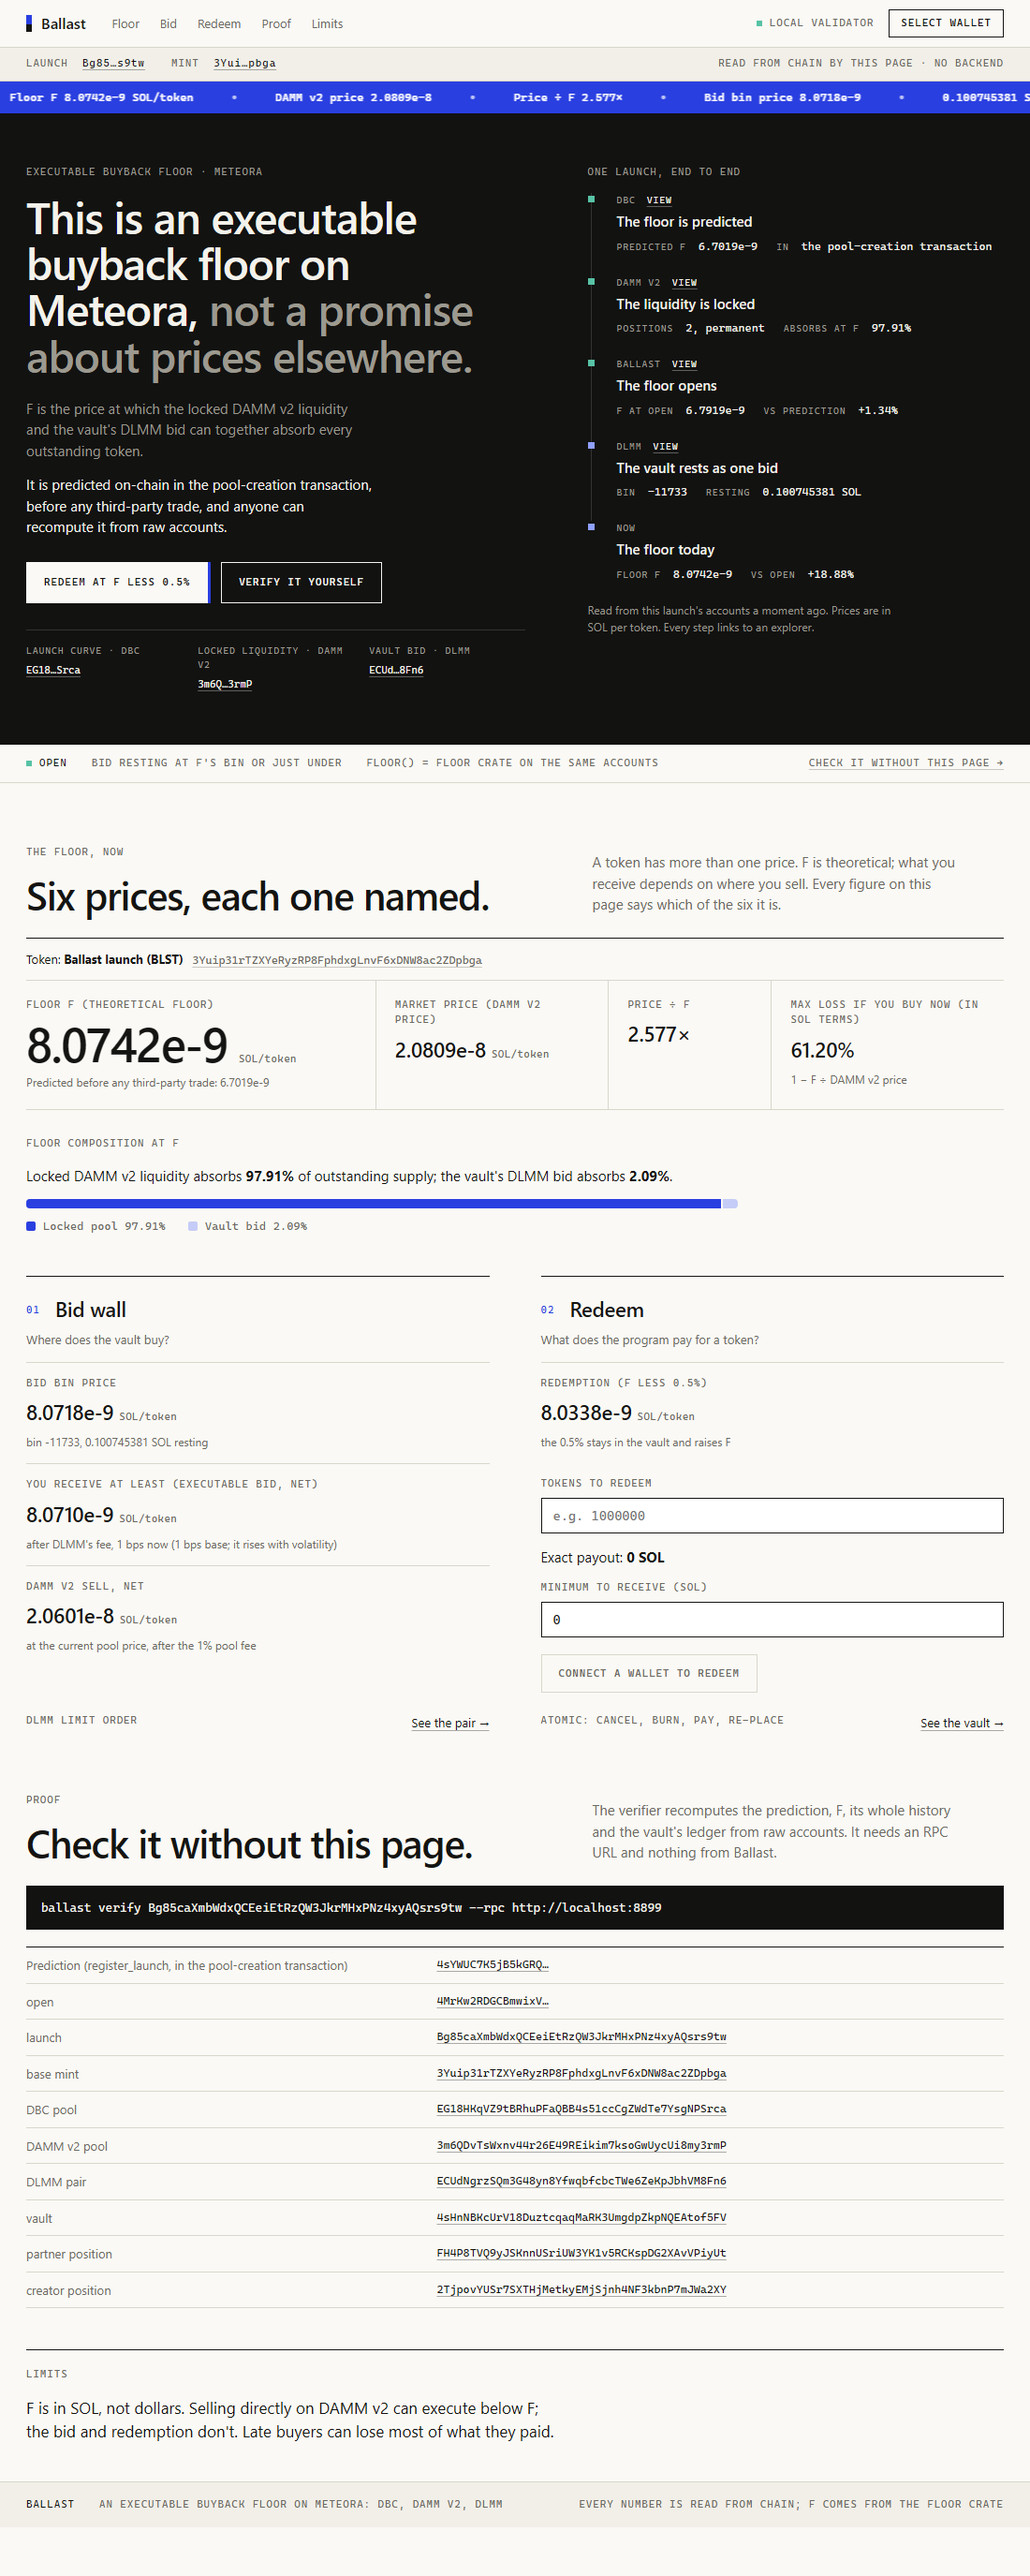
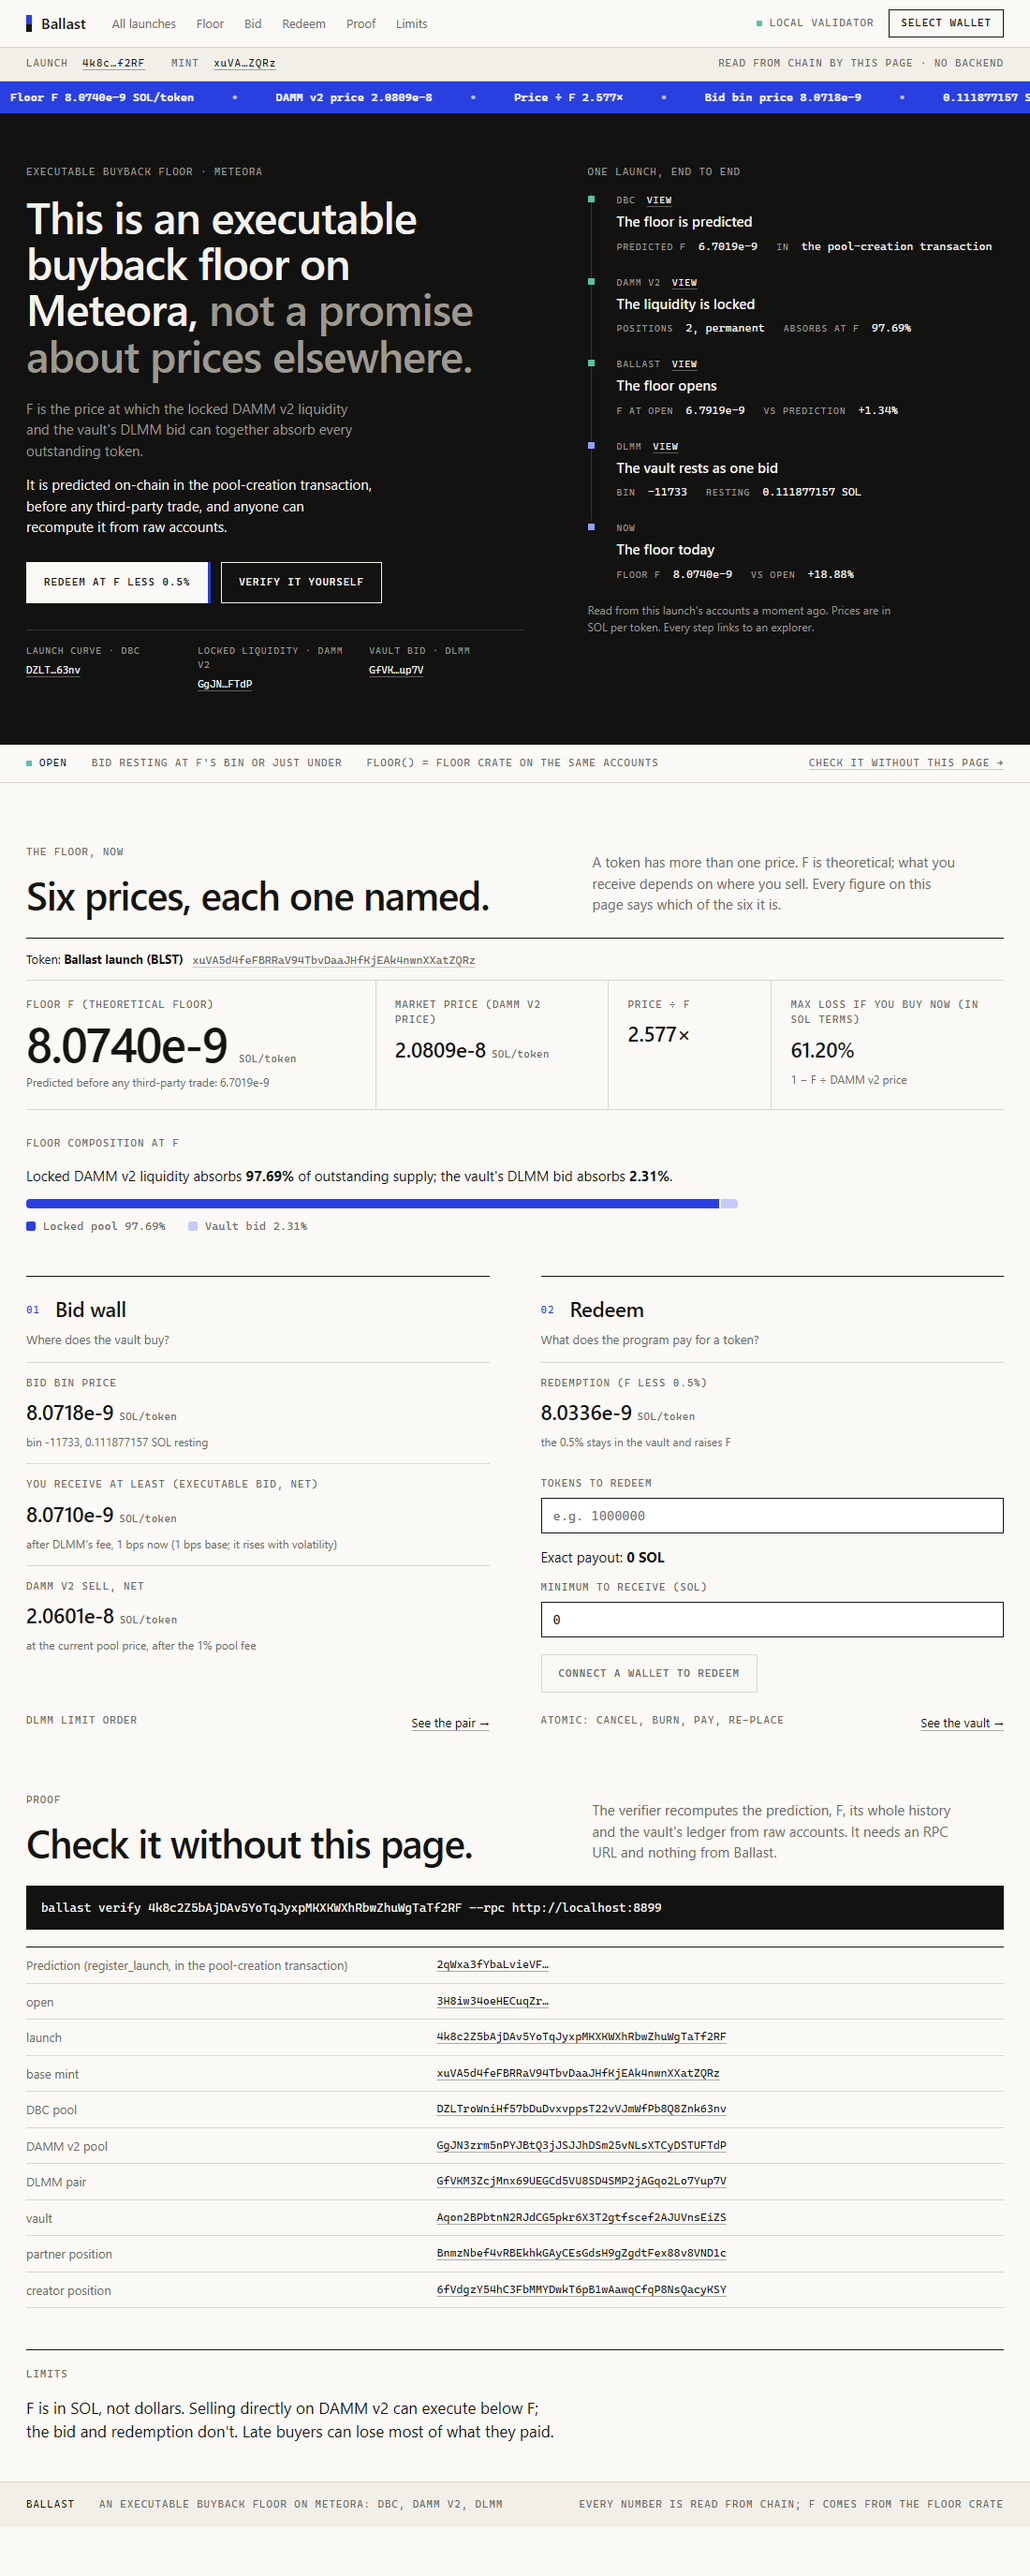
feat(app): landing screen — scan finding, launch list, how it works; video script (§21, §29)

Changed region(s): [[0.4327, 0.7727, 0.7109, 0.8964], [0.2164, 0.0, 0.2782, 0.0309], [0.1236, 0.4018, 0.1545, 0.4327]]

diff --git a/app/src/App.tsx b/app/src/App.tsx
@@ -4,7 +4,12 @@ import { useConnection, useWallet } from "@solana/wallet-adapter-react";
 import { WalletMultiButton } from "@solana/wallet-adapter-react-ui";
 import idl from "./ballast.json";
 import { loadFloor, type Floor } from "../../sdk/typescript/src/floor";
-import { buildRedeemTx, explorerUrl, loadModel, REDEEM_FEE_BPS, type Model } from "./model";
+import { BallastClient, LAUNCH_STATE } from "../../sdk/typescript/src/client";
+import { buildRedeemTx, explorerUrl, fFromS, loadModel, REDEEM_FEE_BPS, type Model } from "./model";
+
+/** One row of the landing page's launch list, straight from the `Launch` account. */
+interface LaunchRow { key: string; mint: string; state: number; predictedF: number; lastF: number | null; slot: number }
+const STATE_NAME: Record<number, string> = { 1: "Registered", 2: "Funded", 3: "Migrated", 4: "Cleaned", 5: "Open" };
 
 const HEADLINE_A = "This is an executable buyback floor on Meteora,";
 const HEADLINE_B = "not a promise about prices elsewhere.";
@@ -77,6 +82,29 @@ export function App() {
   const [amount, setAmount] = useState("");
   const [minOut, setMinOut] = useState<string | null>(null);
   const [status, setStatus] = useState<string | null>(null);
+  const [launches, setLaunches] = useState<LaunchRow[] | null>(null);
+
+  // Landing page (no ?launch=): every launch the program holds on this cluster, newest first.
+  useEffect(() => {
+    if (launchParam) return;
+    type Raw = { publicKey: PublicKey; account: { state: number; baseMint: PublicKey; registeredSlot: { toString(): string }; predictedS: { toString(): string }; sLast: { toString(): string } } };
+    const client = new BallastClient(connection, idl);
+    (client.program.account as never as { launch: { all(): Promise<Raw[]> } }).launch
+      .all()
+      .then((all) =>
+        setLaunches(
+          all
+            .map((x) => ({
+              key: x.publicKey.toBase58(), mint: x.account.baseMint.toBase58(), state: x.account.state,
+              predictedF: fFromS(BigInt(x.account.predictedS.toString())),
+              lastF: x.account.state === LAUNCH_STATE.open ? fFromS(BigInt(x.account.sLast.toString())) : null,
+              slot: Number(x.account.registeredSlot.toString()),
+            }))
+            .sort((p, q) => q.slot - p.slot),
+        ),
+      )
+      .catch((e) => setError(`could not list launches on ${connection.rpcEndpoint}: ${String((e as Error).message ?? e)}`));
+  }, [connection, launchParam]);
 
   useEffect(() => {
     fetch("/floor_wasm.wasm").then((r) => r.arrayBuffer()).then(loadFloor).then(setFloor, (e) => setError(String(e)));
@@ -145,7 +173,14 @@ export function App() {
         `Locked pool absorbs ${pct(m.composition.lockedPool)} of supply at F`,
         `Predicted ${sol(m.predictedF)} before any third-party trade`,
       ]
-    : ["Every number on this page is read from chain", "F comes from the floor crate, never from this page", "Check it with ballast verify"];
+    : [
+        "94 of the 100 newest DBC → DAMM v2 launches on mainnet had no permanently locked liquidity",
+        "Ballast: 85% of the raise locked for ever, 15% resting as one DLMM bid at the floor",
+        "Full sell-out on Meteora's mainnet binaries: lowest execution 1.017 × F",
+        "Every number is read from chain; F comes from the floor crate",
+        "Check any launch with ballast verify",
+      ];
+  const here = `${window.location.pathname}?rpc=${encodeURIComponent(rpc)}`;
 
   return (
     <div className="page" id="top">
@@ -155,11 +190,23 @@ export function App() {
           Ballast
         </a>
         <div className="links">
-          <a href="#floor">Floor</a>
-          <a href="#bid">Bid</a>
-          <a href="#redeem">Redeem</a>
-          <a href="#proof">Proof</a>
-          <a href="#limits">Limits</a>
+          {launchParam ? (
+            <>
+              <a href={here}>All launches</a>
+              <a href="#floor">Floor</a>
+              <a href="#bid">Bid</a>
+              <a href="#redeem">Redeem</a>
+              <a href="#proof">Proof</a>
+              <a href="#limits">Limits</a>
+            </>
+          ) : (
+            <>
+              <a href="#launches">Launches</a>
+              <a href="#how">How it works</a>
+              <a href="#check">Check it</a>
+              <a href="#limits">Limits</a>
+            </>
+          )}
         </div>
         <div className="right">
           <span className="cluster">
@@ -208,10 +255,10 @@ export function App() {
             accounts.
           </p>
           <div className="cta">
-            <a className="btn solid" href="#redeem">
-              Redeem at F less 0.5%
+            <a className="btn solid" href={launchParam ? "#redeem" : "#launches"}>
+              {launchParam ? "Redeem at F less 0.5%" : "Open a launch"}
             </a>
-            <a className="btn" href="#proof">
+            <a className="btn" href={launchParam ? "#proof" : "#check"}>
               Verify it yourself
             </a>
           </div>
@@ -234,11 +281,16 @@ export function App() {
         </div>
 
         <div className="trail">
-          <div className="eyebrow">One launch, end to end</div>
+          <div className="eyebrow">{launchParam ? "One launch, end to end" : "Why it matters"}</div>
           {!launchParam ? (
-            <p className="lede dim">
-              Open a launch: <code>?launch=&lt;launch address&gt;&amp;rpc=&lt;rpc url&gt;</code>
-            </p>
+            <div className="why">
+              <div className="big">
+                94 <span>of 100</span>
+              </div>
+              <p className="lede">of the newest DBC → DAMM v2 launches on mainnet had no permanently locked liquidity at all.</p>
+              <p className="lede dim">Only 2 held a locked-liquidity floor above half their pool price. A Ballast launch locks 85% of the raise for ever and rests the other 15% as a bid at the floor.</p>
+              <p className="caption">Measured with `ballast scan` over mainnet on 8 Oct 2026: evidence/scanner/scan-100-2026-10-08.json.</p>
+            </div>
           ) : !m ? (
             <p className="lede dim">{error ? "The launch could not be read." : "Reading the launch from chain…"}</p>
           ) : (
@@ -478,6 +530,97 @@ export function App() {
             </section>
           </main>
         </>
+      )}
+
+      {!launchParam && (
+        <main>
+          <section id="launches">
+            <div className="intro">
+              <div>
+                <div className="eyebrow">Launches on this cluster</div>
+                <h2>Pick one and try to break it.</h2>
+              </div>
+              <p>Every launch the program holds, read from its accounts. Open one to see its floor, its bid, redemption and the transactions that prove it.</p>
+            </div>
+            {launches === null ? (
+              <p className="q">{error ? "" : "Reading launches from chain…"}</p>
+            ) : launches.length === 0 ? (
+              <p className="q">No launch exists on this cluster yet.</p>
+            ) : (
+              <table className="list">
+                <thead>
+                  <tr>
+                    <th>Launch</th>
+                    <th>State</th>
+                    <th>Predicted F (lower bound)</th>
+                    <th>Floor F (last recorded)</th>
+                    <th />
+                  </tr>
+                </thead>
+                <tbody>
+                  {launches.map((l) => (
+                    <tr key={l.key}>
+                      <td>{addr(l.key, short(l.key))}</td>
+                      <td>{STATE_NAME[l.state] ?? l.state}</td>
+                      <td>{sol(l.predictedF)} SOL/token</td>
+                      <td>{l.lastF === null ? "not open yet" : `${sol(l.lastF)} SOL/token`}</td>
+                      <td>{l.state === LAUNCH_STATE.open ? <a href={`${here}&launch=${l.key}`}>Open the floor →</a> : "—"}</td>
+                    </tr>
+                  ))}
+                </tbody>
+              </table>
+            )}
+          </section>
+
+          <section id="how">
+            <div className="intro">
+              <div>
+                <div className="eyebrow">How it works</div>
+                <h2>Three Meteora programs, one floor.</h2>
+              </div>
+              <p>F is the price at which the locked pool and the vault's bid can together absorb every outstanding token. Each program carries a part of it; none is decoration.</p>
+            </div>
+            <div className="trio">
+              <div>
+                <h3>
+                  <i>01</i> DBC
+                </h3>
+                <p className="q">The launch class</p>
+                <p>The curve's config is checked field by field on-chain, and the predicted floor is recorded in the pool-creation transaction, before any third-party trade.</p>
+              </div>
+              <div>
+                <h3>
+                  <i>02</i> DAMM v2
+                </h3>
+                <p className="q">The locked liquidity</p>
+                <p>85% of the raise migrates into two permanently locked positions held by the program. That liquidity is L in the floor equation.</p>
+              </div>
+              <div>
+                <h3>
+                  <i>03</i> DLMM
+                </h3>
+                <p className="q">The vault's bid</p>
+                <p>The other 15% rests as one limit order in the highest bin at or below F. Fills are burned, which raises F for everyone who remains.</p>
+              </div>
+            </div>
+          </section>
+
+          <section id="check">
+            <div className="intro">
+              <div>
+                <div className="eyebrow">Check it</div>
+                <h2>A claim built to be tested.</h2>
+              </div>
+              <p>The verifier recomputes the prediction, F, its whole history and the vault's ledger from raw accounts. On Meteora's mainnet binaries, a full sell-out of every team token executed no lower than 1.017 × F.</p>
+            </div>
+            <pre>ballast verify &lt;launch&gt; --rpc {rpc}</pre>
+          </section>
+
+          <section id="limits" className="limits">
+            <div className="eyebrow">Limits</div>
+            <p>{LIMITS}</p>
+          </section>
+        </main>
       )}
 
       <footer>

diff --git a/app/src/styles.css b/app/src/styles.css
@@ -138,3 +138,13 @@ footer span:first-child { color: var(--ink); }
   .push { margin-left: 0; }
 }
 @media (max-width: 520px) { .figures.lead, .meta { grid-template-columns: minmax(0, 1fr); } td:first-child { width: 36%; } }
+
+/* Landing: the scan figure, the launch list, the three programs. */
+.why .big { font-size: clamp(64px, 10vw, 128px); font-weight: 600; letter-spacing: -0.04em; line-height: 0.95; margin-bottom: 16px; }
+.why .big span { font-size: 0.3em; letter-spacing: -0.01em; color: var(--night-muted); }
+table.list th { text-align: left; font-family: var(--mono); font-size: 11px; letter-spacing: 0.09em; text-transform: uppercase; font-weight: 400; color: var(--muted); padding: 10px 12px 10px 0; border-bottom: 1px solid var(--rule); }
+table.list td, table.list td:first-child { width: auto; color: var(--ink); font-family: var(--sans); font-size: 14px; padding: 14px 12px 14px 0; }
+table.list td:first-child { font-family: var(--mono); font-size: 13px; } table.list td:last-child { text-align: right; font-family: var(--sans); font-size: 13px; font-weight: 600; }
+.trio { display: grid; grid-template-columns: repeat(3, minmax(0, 1fr)); gap: clamp(20px, 4vw, 56px); }
+.trio > div { border-top: 1px solid var(--ink); padding-top: 18px; } .trio p { margin: 0 0 8px; }
+@media (max-width: 900px) { .trio { grid-template-columns: minmax(0, 1fr); } table.list th:nth-child(3), table.list td:nth-child(3) { display: none; } }

diff --git a/docs/video-script.md b/docs/video-script.md
@@ -1,0 +1,12 @@
+# Video script (about 3 minutes)
+
+Local ledger of 11 Oct 2026 (`evidence/proof-local/summary.md`). Keep every signature visible; label any sped-up segment.
+
+| Time | Screen | Say |
+|---|---|---|
+| 0:00 | Landing page: `http://localhost:4173/?rpc=http://localhost:8899` | "Ninety-four of the last hundred tokens that graduated from Meteora's bonding curve locked none of their liquidity. When the team leaves, nothing is underneath. Ballast is a launch class where the floor is computed on-chain before anyone trades, and anyone can check it." |
+| 0:20 | Click "Open the floor" on launch `4k8c2Z5bAjDAv5YoTqJyxpMKXKWXhRbwZhuWgTaTf2RF`; hero and timeline | "This is an executable buyback floor on Meteora, not a promise about prices elsewhere. At graduation, 85% of the raise migrates into DAMM v2 as two permanently locked positions owned by the program. The other 15% goes into a vault that rests as one DLMM limit order at the floor price, F. F is the price at which the locked pool plus that bid can absorb every token outstanding. DBC, DAMM v2 and DLMM each carry part of it." |
+| 0:55 | `evidence/proof-local/summary.md` | "This is not a simulation. These are Meteora's mainnet binaries on a local validator. The floor was predicted in the pool-creation transaction. Three wallets bought to graduation, and the realised floor came in 1.34% above the prediction. Then the team sold every token: 72 sells. The lowest execution was 1.017 times the floor. And the floor ended higher than it started, because every fill is burned." |
+| 1:40 | Terminal: `./target/release/ballast verify 8bhs9kb1QSZGvJrXTfH4HMrFQ3WEycSkicjegyabvT8w --rpc http://127.0.0.1:8899` | "You don't have to trust our page. One command recomputes the prediction, the floor, its whole history and the vault's ledger, to the lamport, from raw accounts." |
+| 2:05 | Redeem panel on launch `4k8c2Z5bAjDAv5YoTqJyxpMKXKWXhRbwZhuWgTaTf2RF` (or terminal: `pnpm -F app test:redeem`) | "Any holder can redeem with the program at F less half a percent, in one atomic transaction. The fee stays in the vault and raises the floor for everyone else." |
+| 2:25 | Limits section, then the README challenge | "What this is not. Late buyers can lose about 74%: the floor sits well under the graduation price. F is in SOL, not dollars. Selling straight into the DAMM pool can execute below F; the bid and redemption do not. It is not on mainnet yet. The claim is falsifiable, and the repo has a challenge: make F go down." |
